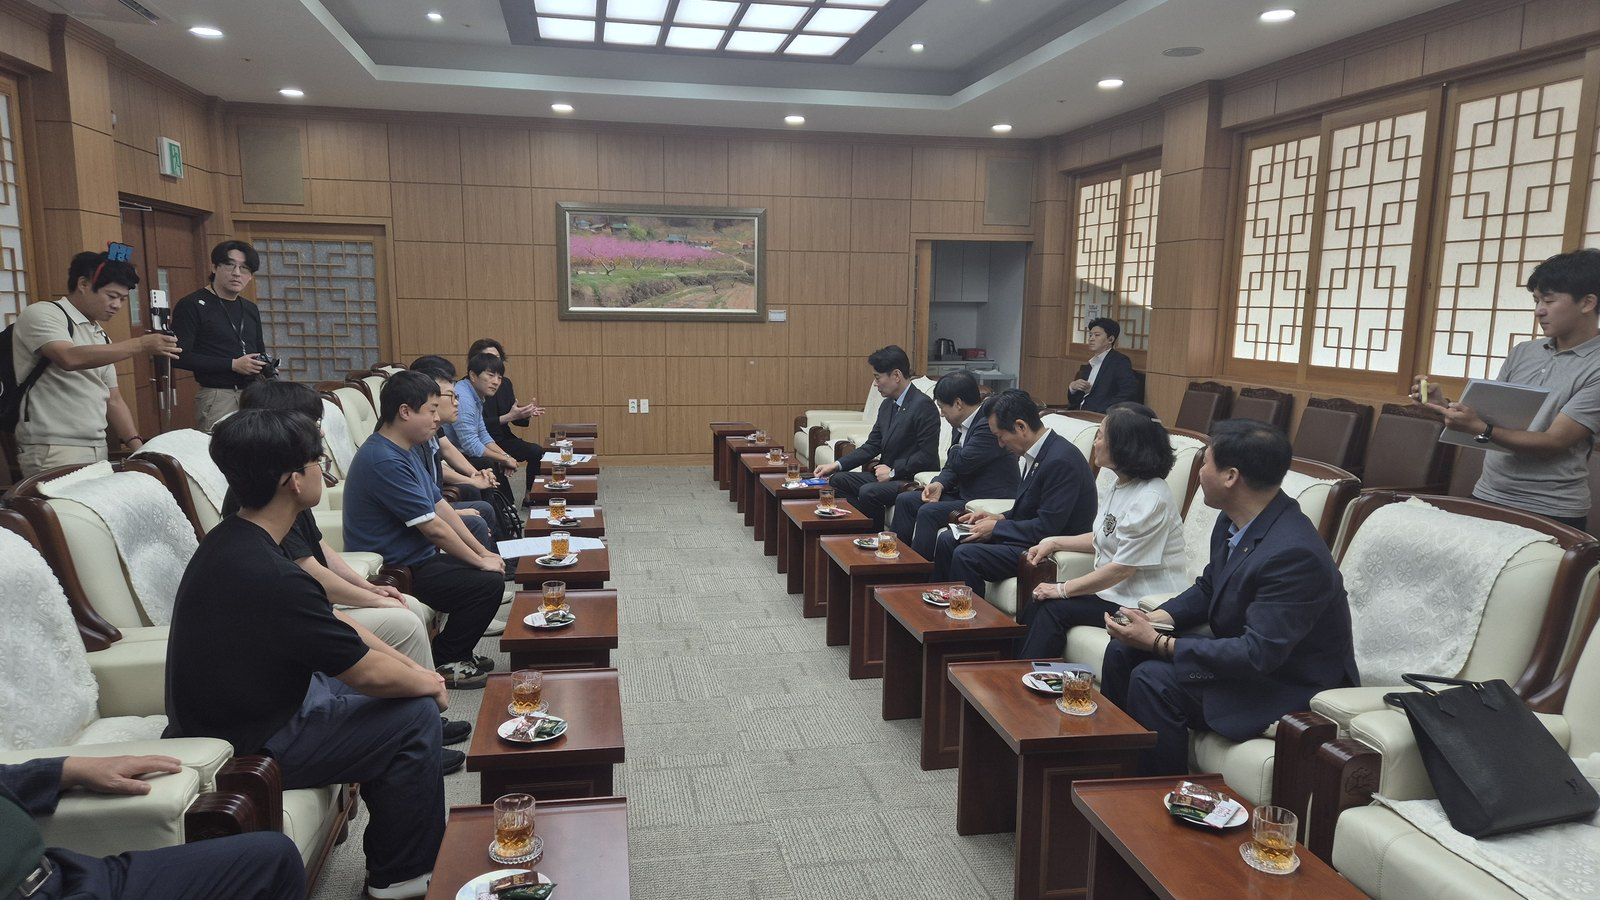
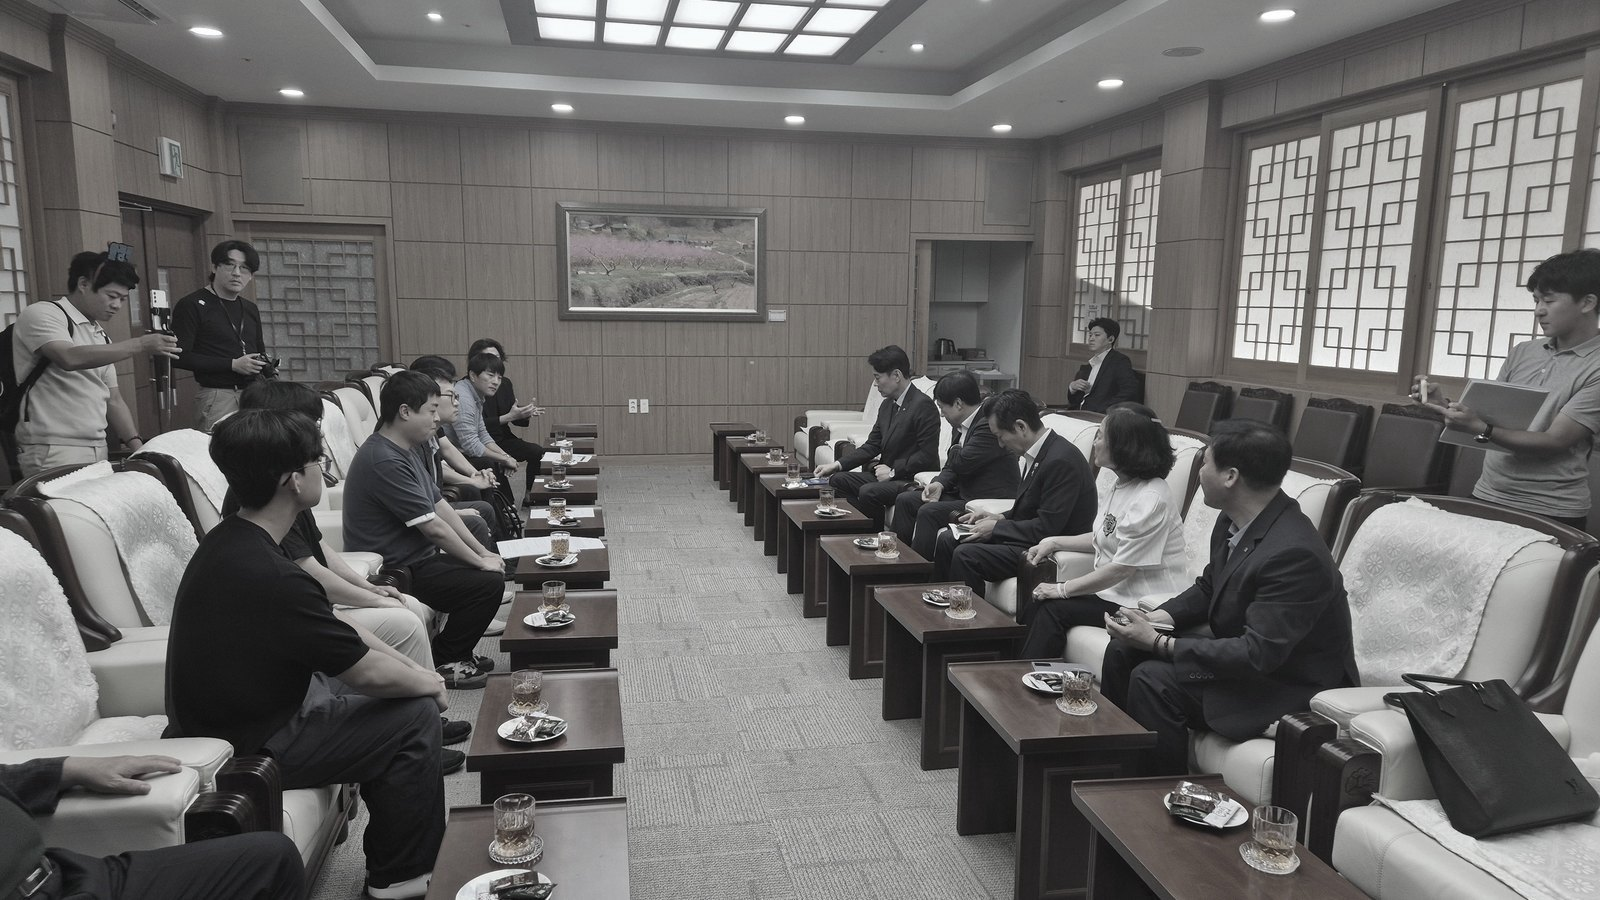
보드: 신규 히어로 사진 감채 처리, 현수막 문구가 보이도록 위치 조정

diff --git a/index.html b/index.html
@@ -46,7 +46,7 @@ html,body{margin:0}body{background:var(--bg);font-family:'Noto Sans KR',system-u
   <div id="hero" class="hero">
     <div class="herobox" style="position:relative;height:235px;overflow:hidden;background:#111;border-radius:18px">
       <img class="hero-img on" src="img/hero-0a.jpg" alt="2026년 7월 23일 정청래 전 더불어민주당 대표 면담" style="object-position:center 48%">
-      <img class="hero-img" src="img/hero-0b.jpg" alt="도수치료 관리급여 즉각 철회 현수막" style="object-position:center 46%">
+      <img class="hero-img" src="img/hero-0b.jpg" alt="도수치료 관리급여 즉각 철회 현수막" style="object-position:center 81%">
       <img class="hero-img" src="img/hero-1.jpg" alt="전국 물리치료사 총궐기대회" style="object-position:center 60%">
       <img class="hero-img" src="img/hero-2.jpg" alt="" style="object-position:center 52%">
       <img class="hero-img" src="img/hero-3.jpg" alt="" style="object-position:center 62%">
